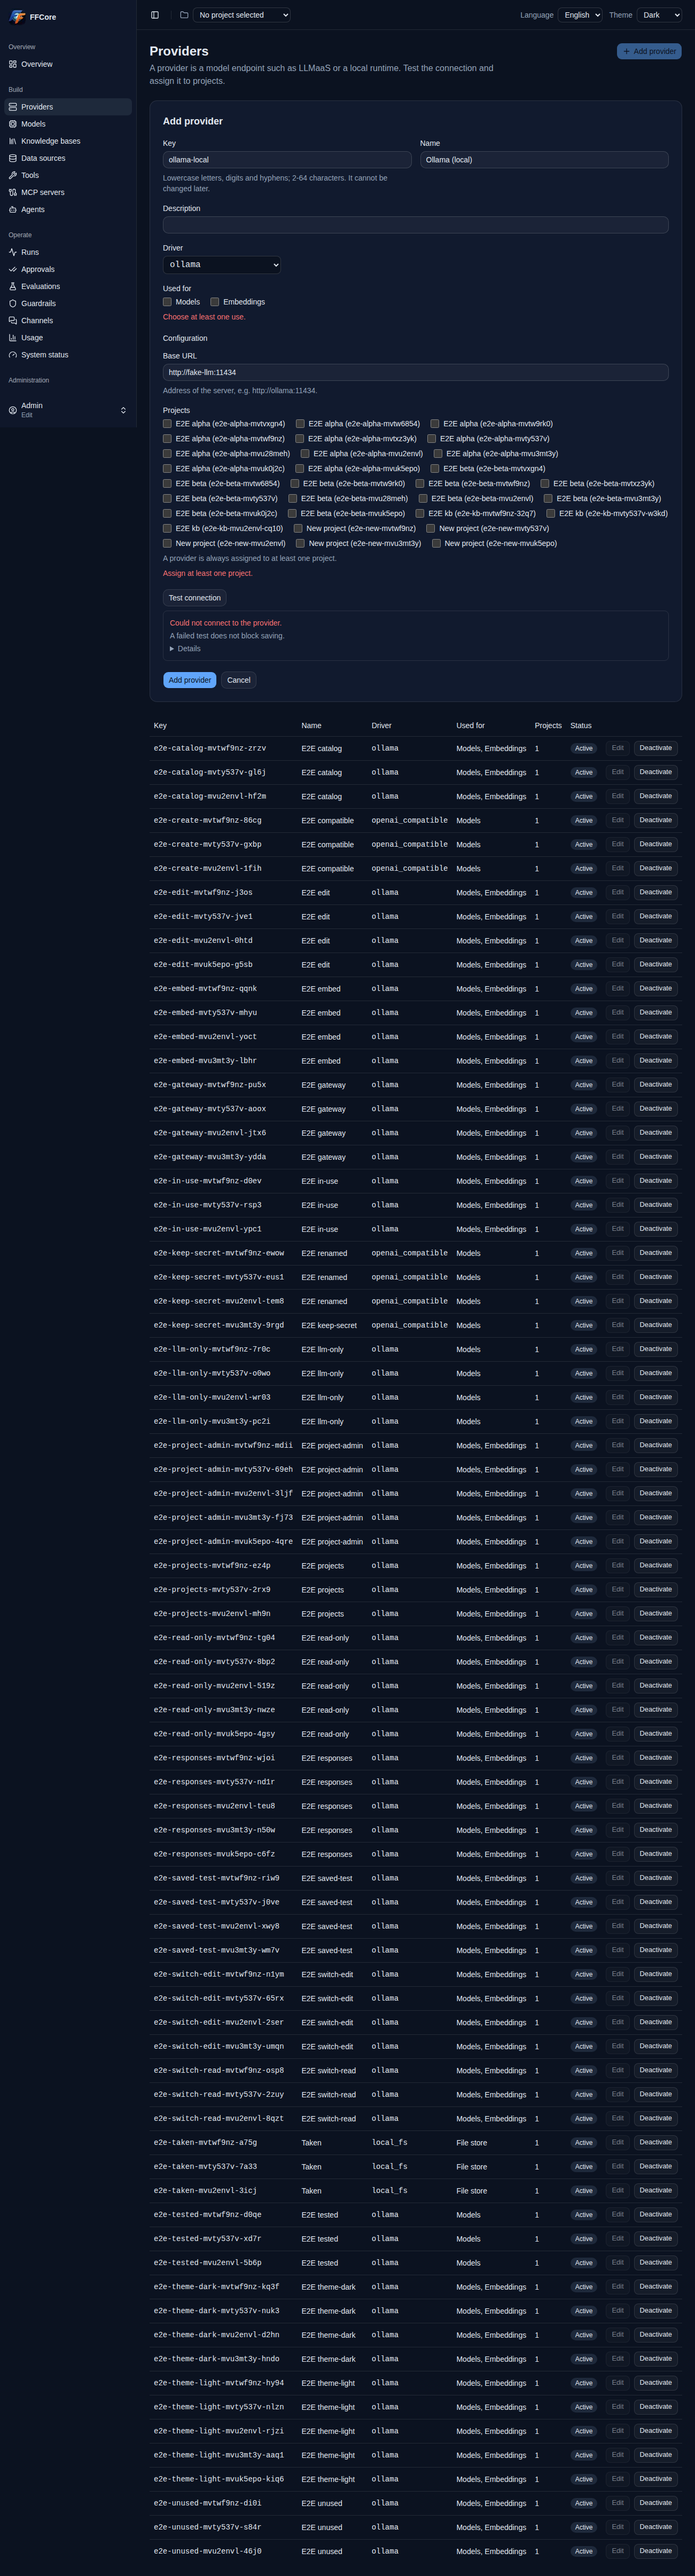
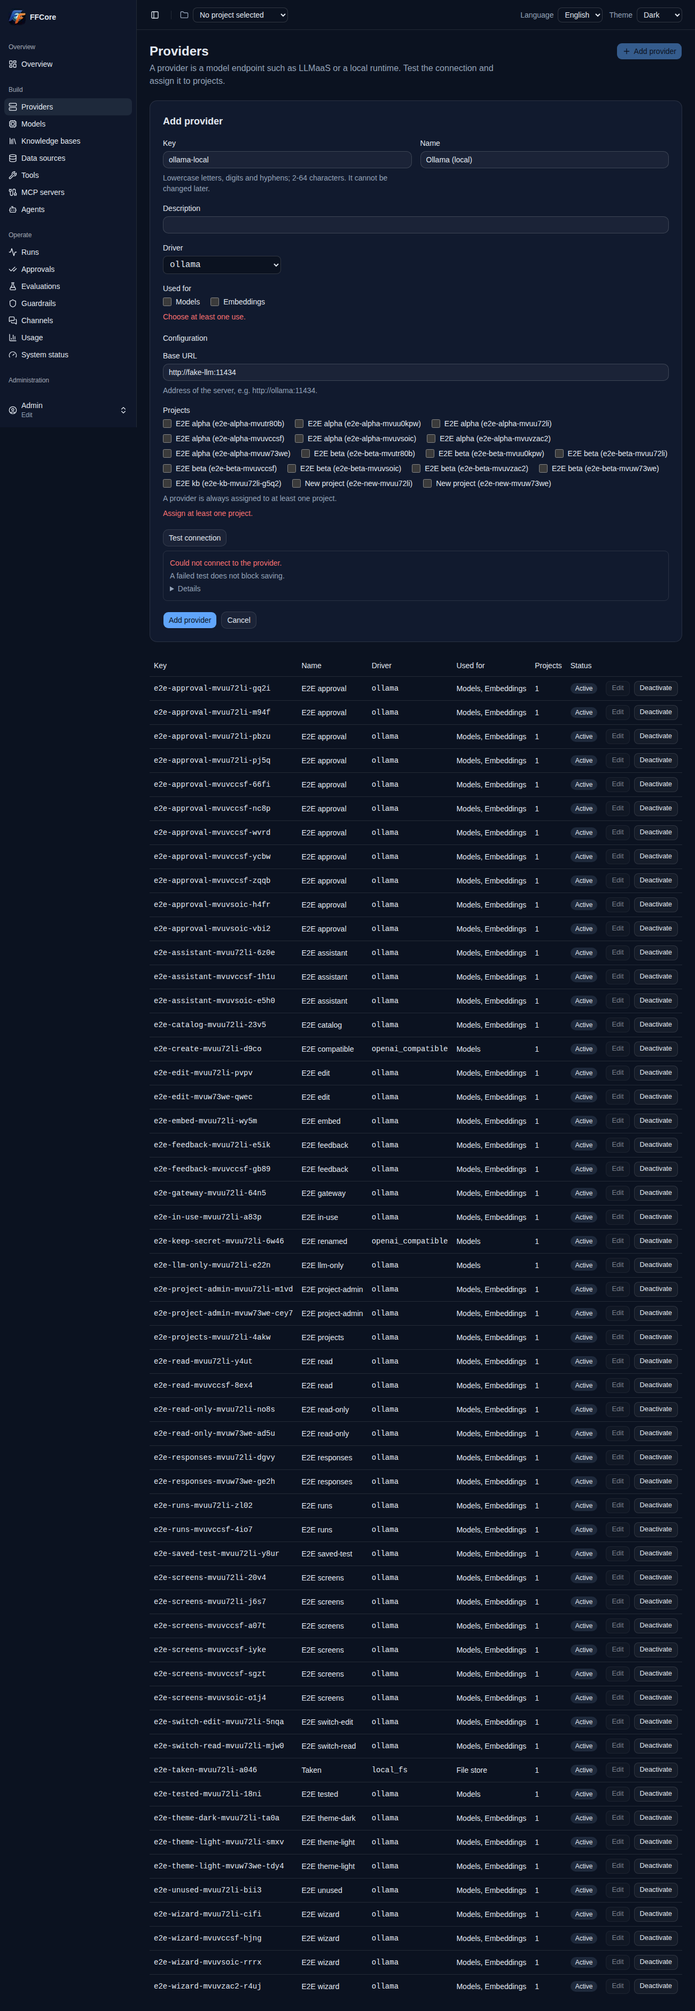
docs(10b-poc-2): acceptance test commands and screenshots from the stack run
The e2e section gives the commands of the 10b-poc-2 stack run: test
profile (fake-llm chat on 9999, ticket-desk), allowed hosts, seed-prompts,
per-stack host ports (K-INIT-0020). Screenshots of the new screens, and
the earlier screens' images regenerated: their sidebars now show the
four screens of this package.

diff --git a/docs/onyuz.md b/docs/onyuz.md
@@ -253,33 +253,37 @@ Node runs only in containers (`docs/gelistirme-ortami.md`).
 
 ### Acceptance tests (Playwright, real backend)
 
-From the repository root, on a throwaway stack (`-p 10bp1`; use any project name). The provider
-tests point at `http://fake-llm:11434`, so the stack allows that host on the command line (the
-shell value wins over `.env.test`; no file changes). The list must keep `langfuse-web` from
-`.env.test`: since 02 the backend refuses to start when `LANGFUSE_HOST` is not an allowed host. `fake-llm` itself is not started: LiteLLM
-does not call a provider when a model is registered, and the connection test reports the failure. If
-another stack already uses host port 8000, add `BACKEND_PORT=<free port>` to the `export` line; the
-tests reach the backend inside the compose network.
+From the repository root, on a throwaway stack (`-p 10bp2`; use any project name). Each stack sets
+its own host ports (`BACKEND_PORT`, `FRONTEND_PORT`; K-INIT-0020: the defaults 8000/3000 are not
+used, so stacks never collide); the tests reach the backend inside the compose network. The
+`test` profile starts the two fakes the agent tests need: `fake-llm` (chat on port 9999; model id
+`tool-default` calls the first offered tool once) and `ticket-desk` (MCP server with
+`send_reply`, which needs approval). `ALLOWED_INTERNAL_HOSTS` is the `.env.test` list plus
+`fake-llm`: the provider connection tests make the backend call it directly (the agent runs reach
+it through LiteLLM, which needs no entry). The shell value wins over `.env.test`; no file changes.
+Runs need the `platform_rules` prompt in Langfuse, so `seed-prompts` runs once per stack.
 
 The knowledge base tests run in two stages on the same stack. Stage 1 has no model weights and
 `FAKE_EMBED` off, so `/readyz` reports `model_missing`; only the test tagged `@model-missing` runs.
 Stage 2 restarts the backend and the ingest worker with `FAKE_EMBED=1` (deterministic stand-in
 embedding and reranker, no weights) and runs everything else. Export it rather than prefixing one
 command: the `e2e` service depends on the backend, so `run` recreates the backend from the shell's
-values, and a prefix-only `FAKE_EMBED=1` is back to 0 by the time the tests start. Weightless formats (measured): PDFs
-with a text layer are indexed; DOCX and Markdown need Docling weights and fail with
-`model_missing`, which the tests use as the failed-document case. `--workers=1` keeps the waits
-stable on a shared machine.
+values, and a prefix-only `FAKE_EMBED=1` is back to 0 by the time the tests start (FOLLOWUP-93).
+Weightless formats (measured): PDFs with a text layer are indexed; DOCX and Markdown need Docling
+weights and fail with `model_missing`, which the tests use as the failed-document case. The
+stand-in reranker scores the share of query words found in a passage, so questions about the
+Turkish samples are asked in Turkish. `--workers=1` keeps the waits stable on a shared machine.
 
 ```bash
-export ALLOWED_INTERNAL_HOSTS=litellm,langfuse-web,fake-llm FFCORE_VERSION=0.0.0-10bp1
-docker compose -p 10bp1 --env-file .env.test up -d --wait --build backend
-printf 'dummy-not-secret-e2e-pw' | docker compose -p 10bp1 --env-file .env.test run --rm -T backend python -m ffcore.cli create-superadmin --email e2e-admin@example.org --full-name "E2E Admin" --password-stdin
-docker compose -p 10bp1 --env-file .env.test --profile e2e run --rm e2e sh -c "npm ci --no-audit --no-fund && npx playwright test --grep @model-missing --workers=1"
+export ALLOWED_INTERNAL_HOSTS=litellm,langfuse-web,mcp-search,mcp-sql,ticket-desk,fake-llm FFCORE_VERSION=0.0.0-10bp2 BACKEND_PORT=18010 FRONTEND_PORT=13010
+docker compose -p 10bp2 --env-file .env.test --profile test up -d --wait --build
+docker compose -p 10bp2 --env-file .env.test --profile tools run --rm --no-deps tools make seed-prompts
+printf 'dummy-not-secret-e2e-pw' | docker compose -p 10bp2 --env-file .env.test run --rm --no-deps -T backend python -m ffcore.cli create-superadmin --email e2e-admin@example.org --full-name "E2E Admin" --password-stdin
+docker compose -p 10bp2 --env-file .env.test --profile test --profile e2e run --rm e2e sh -c "npm ci --no-audit --no-fund && npx playwright test --grep @model-missing --workers=1"
 export FAKE_EMBED=1   # keep it set: `run e2e` recreates the backend from the shell's values
-docker compose -p 10bp1 --env-file .env.test up -d --wait backend worker
-docker compose -p 10bp1 --env-file .env.test --profile e2e run --rm e2e sh -c "npm ci --no-audit --no-fund && npx playwright test --grep-invert @model-missing --workers=1"
-docker compose -p 10bp1 --env-file .env.test --profile e2e down -v
+docker compose -p 10bp2 --env-file .env.test --profile test up -d --wait backend worker
+docker compose -p 10bp2 --env-file .env.test --profile test --profile e2e run --rm e2e sh -c "npm ci --no-audit --no-fund && npx playwright test --grep-invert @model-missing --workers=1"
+docker compose -p 10bp2 --env-file .env.test --profile test --profile e2e down -v
 ```
 
 The superadmin is created once per stack; `tests/e2e/global-setup.ts` creates the other accounts
@@ -289,7 +293,7 @@ It also gets `LITELLM_URL` and `LITELLM_MASTER_KEY` (the `.env.test` test value)
 LiteLLM's `/model/info`; the key goes only in a header. CI runs the same commands. Playwright image: `mcr.microsoft.com/playwright:v1.64.1-noble`
 (`sha256:47b510dd9230bf0b9bfc9b20102241e577ea7a99334ab4c3ca19f19770e9b8ea`), matching
 `@playwright/test` 1.64.1, pinned in `deploy/docker-compose.yml`. Screenshots are written to
-`docs/images/10a-<screen>-<theme>.png`.
+`docs/images/<package>-<screen>-<theme>.png` (10a, 10bp1, 10mrk, 10bp2).
 
 ## Screenshots
 
